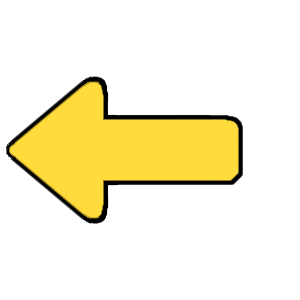
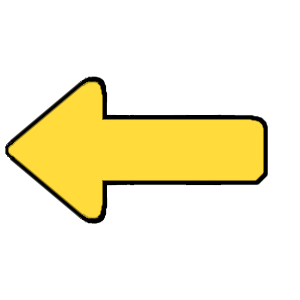
Add support for one-way update synchronization

diff --git a/MainWindow.cpp b/MainWindow.cpp
@@ -732,7 +732,7 @@ MainWindow::switchVersioningLocation
 */
 void MainWindow::switchVersioningLocation(VersioningLocation location, bool init)
 {
-    locallyBesideFolderAction->setChecked(location== LocallyBesideFolder);
+    locallyNextToFolderAction->setChecked(location== LocallyNextToFolder);
     userDesignatedFolderAction->setChecked(location == UserDesignatedFolder);
     manager.setVersioningLocation(location);
 
@@ -969,10 +969,14 @@ void MainWindow::showContextMenu(const QPoint &pos)
 
             menu.addSeparator();
 
-            if (folder->syncType == SyncFolder::TWO_WAY)
-                menu.addAction(iconOneWay, tr("&Switch to one-way synchronization"), this, [folder, this](){ switchSyncingType(*folder, SyncFolder::ONE_WAY); });
-            else if (folder->syncType == SyncFolder::ONE_WAY)
+            if (folder->syncType != SyncFolder::TWO_WAY)
                 menu.addAction(iconTwoWay, tr("&Switch to two-way synchronization"), this, [folder, this](){ switchSyncingType(*folder, SyncFolder::TWO_WAY); });
+
+            if (folder->syncType != SyncFolder::ONE_WAY)
+                menu.addAction(iconOneWay, tr("&Switch to one-way synchronization"), this, [folder, this](){ switchSyncingType(*folder, SyncFolder::ONE_WAY); });
+
+            if (folder->syncType != SyncFolder::ONE_WAY_UPDATE)
+                menu.addAction(iconOneWayUpdate, tr("&Switch to one-way update synchronization"), this, [folder, this](){ switchSyncingType(*folder, SyncFolder::ONE_WAY_UPDATE); });
         }
 
         menu.popup(ui->folderListView->mapToGlobal(pos));
@@ -1164,6 +1168,8 @@ void MainWindow::updateStatus()
                         icon = &iconTwoWay;
                     else if (folder->syncType == SyncFolder::ONE_WAY)
                         icon = &iconOneWay;
+                    else if (folder->syncType == SyncFolder::ONE_WAY_UPDATE)
+                        icon = &iconOneWayUpdate;
 
                     folderModel->setData(index, *icon, SyncTypeRole);
 
@@ -1409,7 +1415,7 @@ void MainWindow::readSettings()
     switchSyncingMode(static_cast<SyncManager::SyncingMode>(settings.value("SyncingMode", SyncManager::Automatic).toInt()));
     switchDeletionMode(static_cast<SyncManager::DeletionMode>(settings.value("DeletionMode", SyncManager::MoveToTrash).toInt()));
     switchVersioningFormat(static_cast<VersioningFormat>(settings.value("VersioningFormat", FolderTimestamp).toInt()));
-    switchVersioningLocation(static_cast<VersioningLocation>(settings.value("VersioningLocation", LocallyBesideFolder).toInt()), true);
+    switchVersioningLocation(static_cast<VersioningLocation>(settings.value("VersioningLocation", LocallyNextToFolder).toInt()), true);
 
     manager.updateNextSyncingTime();
 
@@ -1506,8 +1512,9 @@ void MainWindow::setupMenus()
     iconSettings.addFile(":/Images/IconSettings.png");
     iconSync.addFile(":/Images/IconSync.png");
     iconWarning.addFile(":/Images/IconWarning.png");
-    iconOneWay.addFile(":/Images/IconOneWay.png");
     iconTwoWay.addFile(":/Images/IconTwoWay.png");
+    iconOneWay.addFile(":/Images/IconOneWay.png");
+    iconOneWayUpdate.addFile(":/Images/IconOneWayUpdate.png");
     trayIconDone.addFile(":/Images/TrayIconDone.png");
     trayIconIssue.addFile(":/Images/TrayIconIssue.png");
     trayIconPause.addFile(":/Images/TrayIconPause.png");
@@ -1529,7 +1536,7 @@ void MainWindow::setupMenus()
     fileTimestampAfterAction = new QAction(tr("&File Timestamp (After Extension)"), this);
     folderTimestampAction = new QAction(tr("&Folder Timestamp"), this);
     lastVersionAction = new QAction(tr("&Last Version"), this);
-    locallyBesideFolderAction = new QAction(tr("&Locally Beside Folder"), this);
+    locallyNextToFolderAction = new QAction(tr("&Locally Next to Folder"), this);
     userDesignatedFolderAction = new QAction(tr("&User Designated Folder"), this);
     saveDatabaseLocallyAction = new QAction(tr("&Locally (On the local machine)"), this);
     saveDatabaseDecentralizedAction = new QAction(tr("&Decentralized (Inside synchronization folders)"), this);
@@ -1562,7 +1569,7 @@ void MainWindow::setupMenus()
     fileTimestampAfterAction->setCheckable(true);
     folderTimestampAction->setCheckable(true);
     lastVersionAction->setCheckable(true);
-    locallyBesideFolderAction->setCheckable(true);
+    locallyNextToFolderAction->setCheckable(true);
     userDesignatedFolderAction->setCheckable(true);
     saveDatabaseLocallyAction->setCheckable(true);
     saveDatabaseDecentralizedAction->setCheckable(true);
@@ -1605,7 +1612,7 @@ void MainWindow::setupMenus()
     versioningFormatMenu->addAction(lastVersionAction);
 
     versioningLocationMenu = new UnhidableMenu(tr("&Versioning Location"), this);
-    versioningLocationMenu->addAction(locallyBesideFolderAction);
+    versioningLocationMenu->addAction(locallyNextToFolderAction);
     versioningLocationMenu->addAction(userDesignatedFolderAction);
 
     languageMenu = new UnhidableMenu(tr("&Language"), this);
@@ -1667,7 +1674,7 @@ void MainWindow::setupMenus()
     connect(fileTimestampAfterAction, &QAction::triggered, this, [this](){ switchVersioningFormat(FileTimestampAfter); });
     connect(folderTimestampAction, &QAction::triggered, this, [this](){ switchVersioningFormat(FolderTimestamp); });
     connect(lastVersionAction, &QAction::triggered, this, [this](){ switchVersioningFormat(LastVersion); });
-    connect(locallyBesideFolderAction, &QAction::triggered, this, [this](){ switchVersioningLocation(LocallyBesideFolder); });
+    connect(locallyNextToFolderAction, &QAction::triggered, this, [this](){ switchVersioningLocation(LocallyNextToFolder); });
     connect(userDesignatedFolderAction, &QAction::triggered, this, [this](){ switchVersioningLocation(UserDesignatedFolder); });
     connect(increaseSyncTimeAction, &QAction::triggered, this, &MainWindow::increaseSyncTime);
     connect(decreaseSyncTimeAction, &QAction::triggered, this, &MainWindow::decreaseSyncTime);
@@ -1708,7 +1715,7 @@ void MainWindow::retranslate()
     fileTimestampAfterAction->setText(tr("&File Timestamp (After Extension)"));
     folderTimestampAction->setText(tr("&Folder Timestamp"));
     lastVersionAction->setText(tr("&Last Version"));
-    locallyBesideFolderAction->setText(tr("&Locally Beside Folder"));
+    locallyNextToFolderAction->setText(tr("&Locally Next to Folder"));
     userDesignatedFolderAction->setText(tr("&User Designated Folder"));
     saveDatabaseLocallyAction->setText(tr("&Locally (On the local machine)"));
     saveDatabaseDecentralizedAction->setText(tr("&Decentralized (Inside synchronization folders)"));

diff --git a/SyncManager.cpp b/SyncManager.cpp
@@ -737,7 +737,7 @@ void SyncManager::checkForRenamedFolders(SyncProfile &profile)
 
     for (auto folderIt = profile.folders.begin(); folderIt != profile.folders.end(); ++folderIt)
     {
-        if (!folderIt->isActive() || folderIt->syncType == SyncFolder::ONE_WAY)
+        if (!folderIt->isActive() || folderIt->syncType == SyncFolder::ONE_WAY || folderIt->syncType == SyncFolder::ONE_WAY_UPDATE)
             continue;
 
         for (QHash<Hash, SyncFile>::iterator renamedFolderIt = folderIt->files.begin(); renamedFolderIt != folderIt->files.end(); ++renamedFolderIt)
@@ -889,7 +889,7 @@ void SyncManager::checkForMovedFiles(SyncProfile &profile)
 
     for (auto folderIt = profile.folders.begin(); folderIt != profile.folders.end(); ++folderIt)
     {
-        if (!folderIt->isActive() || folderIt->syncType == SyncFolder::ONE_WAY)
+        if (!folderIt->isActive() || folderIt->syncType == SyncFolder::ONE_WAY || folderIt->syncType == SyncFolder::ONE_WAY_UPDATE)
             continue;
 
         QHash<Hash, SyncFile *> missingFiles;
@@ -1039,7 +1039,7 @@ void SyncManager::checkForAddedFiles(SyncProfile &profile)
     {
         for (auto otherFolderIt = profile.folders.begin(); otherFolderIt != profile.folders.end(); ++otherFolderIt)
         {
-            if (folderIt == otherFolderIt || !otherFolderIt->exists || otherFolderIt->syncType == SyncFolder::ONE_WAY)
+            if (folderIt == otherFolderIt || !otherFolderIt->exists || otherFolderIt->syncType == SyncFolder::ONE_WAY || otherFolderIt->syncType == SyncFolder::ONE_WAY_UPDATE)
                 continue;
 
             if (!folderIt->isActive())
@@ -1133,7 +1133,7 @@ void SyncManager::checkForRemovedFiles(SyncProfile &profile)
 
     for (auto folderIt = profile.folders.begin(); folderIt != profile.folders.end(); ++folderIt)
     {
-        if (folderIt->syncType == SyncFolder::ONE_WAY)
+        if (folderIt->syncType == SyncFolder::ONE_WAY || folderIt->syncType == SyncFolder::ONE_WAY_UPDATE)
             continue;
 
         for (QHash<Hash, SyncFile>::iterator fileIt = folderIt->files.begin() ; fileIt != folderIt->files.end();)
@@ -1760,7 +1760,7 @@ void SyncManager::removeNotExistedFiles(SyncProfile &profile, SyncFolder &folder
 
         for (auto folderIt = profile.folders.begin(); folderIt != profile.folders.end(); ++folderIt)
         {
-            if (&(*folderIt) == &folder || !folderIt->exists || folderIt->syncType == SyncFolder::ONE_WAY)
+            if (&(*folderIt) == &folder || !folderIt->exists || folderIt->syncType == SyncFolder::ONE_WAY || folderIt->syncType == SyncFolder::ONE_WAY_UPDATE)
                 continue;
 
             if (!folderIt->isActive())
@@ -1800,7 +1800,7 @@ void SyncManager::removeNotExistedFiles(SyncProfile &profile, SyncFolder &folder
 
         for (auto folderIt = profile.folders.begin(); folderIt != profile.folders.end(); ++folderIt)
         {
-            if (&(*folderIt) == &folder || !folderIt->exists || folderIt->syncType == SyncFolder::ONE_WAY)
+            if (&(*folderIt) == &folder || !folderIt->exists || folderIt->syncType == SyncFolder::ONE_WAY || folderIt->syncType == SyncFolder::ONE_WAY_UPDATE)
                 continue;
 
             if (!folderIt->isActive())

diff --git a/MainWindow.h b/MainWindow.h
@@ -121,8 +121,9 @@ private:
     QIcon iconSettings;
     QIcon iconSync;
     QIcon iconWarning;
-    QIcon iconOneWay;
     QIcon iconTwoWay;
+    QIcon iconOneWay;
+    QIcon iconOneWayUpdate;
     QIcon trayIconDone;
     QIcon trayIconIssue;
     QIcon trayIconPause;
@@ -145,7 +146,7 @@ private:
     QAction *fileTimestampAfterAction;
     QAction *folderTimestampAction;
     QAction *lastVersionAction;
-    QAction *locallyBesideFolderAction;
+    QAction *locallyNextToFolderAction;
     QAction *userDesignatedFolderAction;
     QAction *saveDatabaseLocallyAction;
     QAction *saveDatabaseDecentralizedAction;

diff --git a/SyncFolder.h b/SyncFolder.h
@@ -64,7 +64,7 @@ enum VersioningFormat
 
 enum VersioningLocation
 {
-    LocallyBesideFolder,
+    LocallyNextToFolder,
     UserDesignatedFolder
 };
 
@@ -82,7 +82,8 @@ public:
     enum SyncType
     {
         TWO_WAY,
-        ONE_WAY
+        ONE_WAY,
+        ONE_WAY_UPDATE
     };
 
     inline bool operator ==(const SyncFolder &other) { return path == other.path; }

diff --git a/FolderStyleDelegate.cpp b/FolderStyleDelegate.cpp
@@ -32,7 +32,7 @@ void FolderStyleDelegate::paint(QPainter *painter, const QStyleOptionViewItem &o
 
     if (!syncTypeIcon.isNull())
     {
-        int iconSize = option.decorationSize.width();
+        int iconSize = option.decorationSize.width() * 1.2f;
         QRect syncTypeRect = option.rect;
 
         syncTypeRect.setRight(syncTypeRect.right() - 5);
